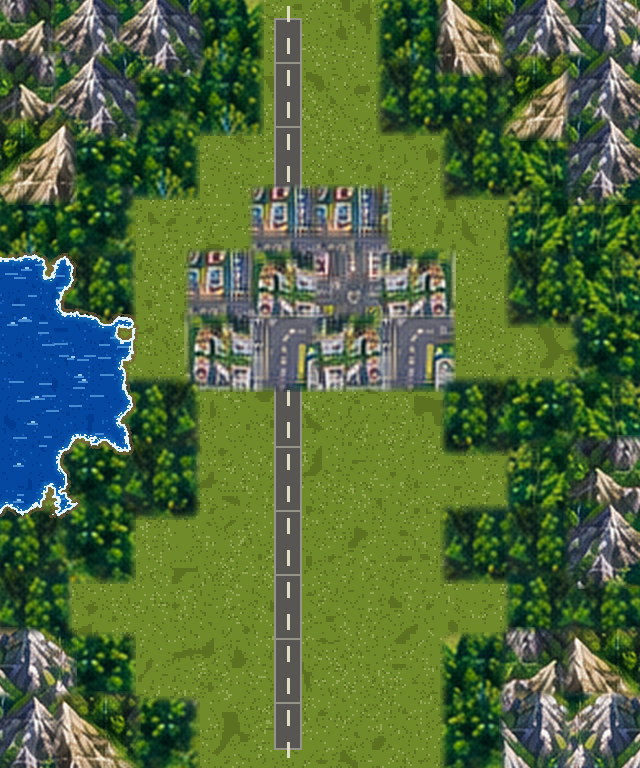
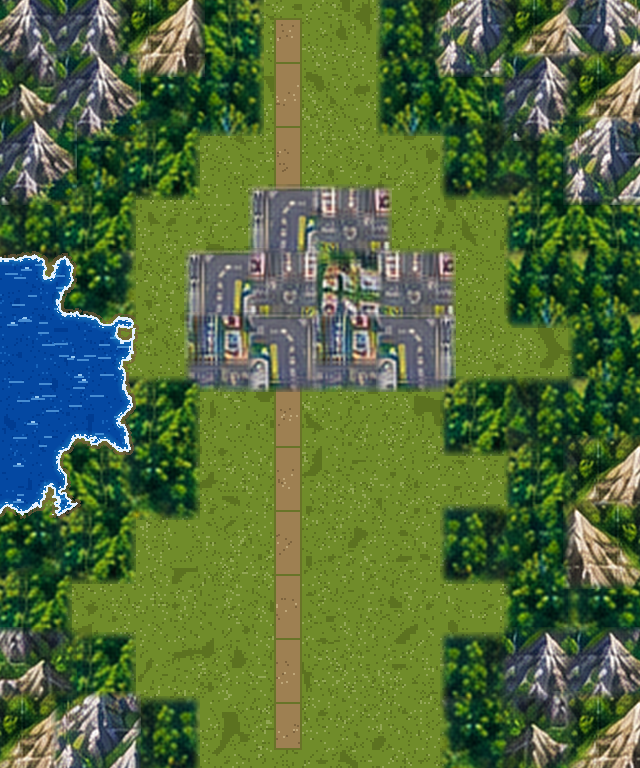
マップの道路を、白線の舗装道路から土の道に
Claude-Session: https://claude.ai/code/session_01AR1wXjuAR5sE8Te44vnUbP

diff --git a/tools/build_map.py b/tools/build_map.py
@@ -97,14 +97,15 @@ for y in range(ROWS):
             if is_road(x + dx, y + dy):
                 parts.append((X + (CELL / 2 if dx > 0 else 0 if dx < 0 else m), Y + (CELL / 2 if dy > 0 else 0 if dy < 0 else m),
                               X + (CELL if dx > 0 else CELL / 2 if dx < 0 else m + w), Y + (CELL if dy > 0 else CELL / 2 if dy < 0 else m + w)))
+        # 道はファンタジーの世界に合わせて土の道（白線のある舗装道路にしない）
         for p in parts:
-            dr.rectangle([p[0] - 2, p[1] - 2, p[2] + 2, p[3] + 2], fill=(150, 148, 136))
+            dr.rectangle([p[0] - 2, p[1] - 2, p[2] + 2, p[3] + 2], fill=(104, 116, 40))
         for p in parts:
-            dr.rectangle(p, fill=(88, 86, 82))
-        horiz = is_road(x - 1, y) or is_road(x + 1, y)
-        for i in range(2):
-            if horiz: dr.rectangle([X + CELL * (.1 + i * .5), Y + CELL / 2 - 1, X + CELL * (.34 + i * .5), Y + CELL / 2 + 1], fill=(225, 222, 200))
-            else: dr.rectangle([X + CELL / 2 - 1, Y + CELL * (.1 + i * .5), X + CELL / 2 + 1, Y + CELL * (.34 + i * .5)], fill=(225, 222, 200))
+            dr.rectangle(p, fill=(158, 128, 82))
+        # 轍（わだち）と小石
+        for _ in range(10):
+            px_, py_ = X + rng.integers(int(m), int(m + w)), Y + rng.integers(int(m), int(m + w))
+            dr.rectangle([px_, py_, px_ + 1, py_ + 1], fill=(126, 100, 62) if rng.random() < .6 else (190, 166, 120))
 
 # 森・山・市街・基地を設定画から貼る（山は少し大きめに貼って重ねる）
 order = sorted(((y, x) for y in range(ROWS) for x in range(COLS)), key=lambda p: (MAP[p[0]][p[1]] == 'M', p))
